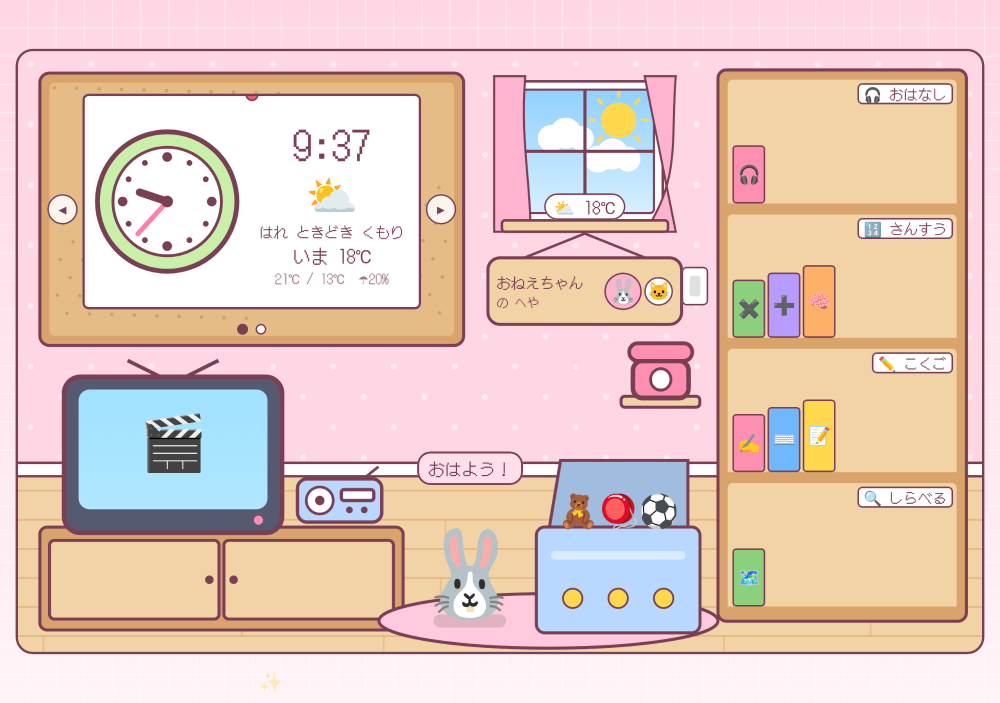
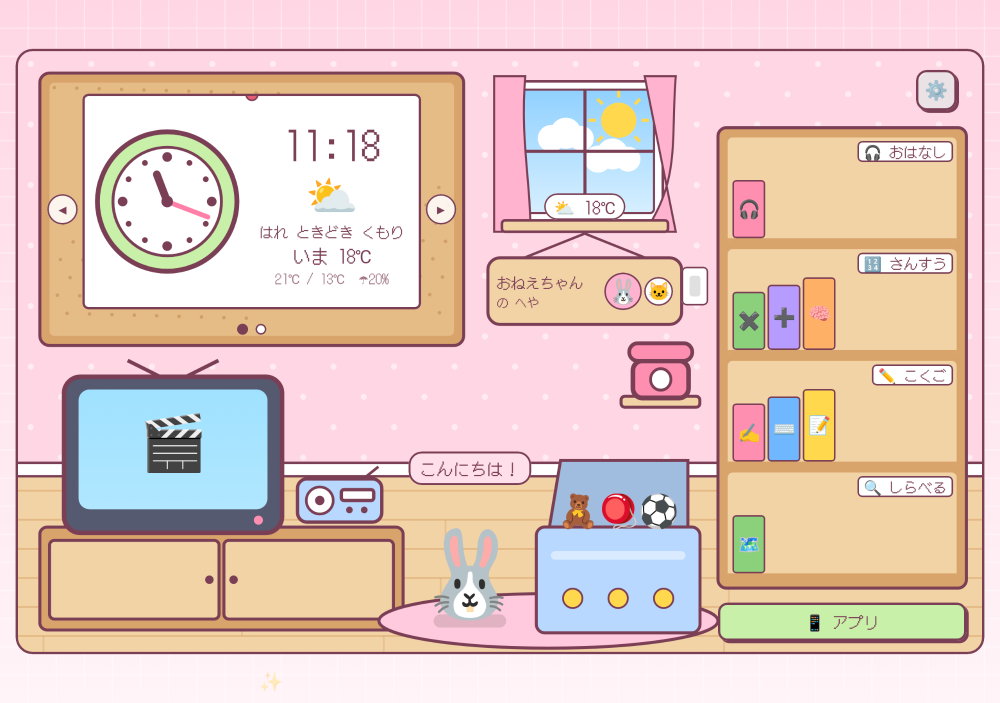
へや：右上に ⚙（2 びょう ながおし）を もどす、右下に 📱 アプリ（ドロワー）
- でんきの スイッチ は やめる（わかりにくかった）
- ドロワー：この子に 見せる アプリ・どうがアプリ・仕分けた カテゴリー
- 0.20.0

Claude-Session: https://claude.ai/code/session_01NhS3xRwFVfssMDMXfSoJEv

diff --git a/app/src/main/java/com/theta/kidshome/ui/Room.kt b/app/src/main/java/com/theta/kidshome/ui/Room.kt
@@ -96,7 +96,9 @@ private val BOARD = R(40f, 40f, 700f, 450f)
 private val WINDOW = R(790f, 45f, 300f, 274f)
 private val PLATE = R(780f, 345f, 320f, 110f)
 private val SWITCH = R(1100f, 360f, 44f, 64f)
-private val SHELF = R(1160f, 35f, 410f, 910f)
+private val SHELF = R(1160f, 130f, 410f, 760f)
+private val GEAR = R(1470f, 18f, 100f, 100f)
+private val APPS = R(1160f, 905f, 410f, 82f)
 private val TV = R(80f, 515f, 360f, 292f)
 private val RADIO = R(460f, 690f, 150f, 95f)
 private val PHONE = R(1010f, 480f, 110f, 100f)
@@ -133,6 +135,7 @@ fun RoomView(
     onTv: () -> Unit,
     onRadio: () -> Unit,
     onCall: () -> Unit,
+    apps: List<Shelf> = emptyList(),
     initialPopup: String? = null,
 ) {
     val cal = Calendar.getInstance().apply { timeInMillis = now }
@@ -152,7 +155,11 @@ fun RoomView(
             Weather.forecast?.let { f -> Tag("${Weather.emoji(f.code, f.isDay)} ${f.temp.toInt()}℃", WINDOW.x + WINDOW.w / 2, WINDOW.y + WINDOW.h - 80f, u, theme, Color.White) }
             // なふだ（子どもの きりかえ）と でんきの スイッチ（おうちのひと）
             NamePlate(theme, profile, u)
-            Box(Modifier.offset(u * SWITCH.x, u * SWITCH.y)) { LightSwitch(theme, u, updateBadge, onGate) }
+            // ⚙ おうちのひと（2 びょう ながおし）と 📱 アプリ の いちらん
+            Box(Modifier.offset(u * GEAR.x, u * GEAR.y).size(u * GEAR.w, u * GEAR.h), contentAlignment = Alignment.Center) { HoldButton(theme, updateBadge, onGate) }
+            if (apps.isNotEmpty()) Box(Modifier.offset(u * APPS.x, u * APPS.y).size(u * APPS.w, u * APPS.h), contentAlignment = Alignment.Center) {
+                RetroButton("📱 アプリ", theme, theme.titleBars[1 % theme.titleBars.size], fontSize = 20, modifier = Modifier.fillMaxWidth()) { popup = "apps" }
+            }
             // ほんだな
             if (shelves.isNotEmpty()) Bookshelf(theme, shelves, u) { s ->
                 if (s.open != null && s.tiles.isEmpty()) s.open.invoke() else { popup = "shelf"; popupKey = s.key }
@@ -196,6 +203,7 @@ fun RoomView(
                 "toys" -> Popup(theme, "🧸 おもちゃばこ", u, onClose = { popup = null }, glass = true) {
                     Showcase(theme, toys, u, tileView)
                 }
+                "apps" -> Popup(theme, "📱 アプリ", u, onClose = { popup = null }) { Showcase(theme, apps, u, tileView) }
                 "wardrobe" -> Popup(theme, "👗 きせかえ", u, onClose = { popup = null }) { Wardrobe(theme, profile.id) }
             }
         }

diff --git a/app/src/main/java/com/theta/kidshome/ui/HomeScreen.kt b/app/src/main/java/com/theta/kidshome/ui/HomeScreen.kt
@@ -206,6 +206,9 @@ fun HomeScreen(
         listOfNotNull(appTiles.takeIf { it.isNotEmpty() }?.let { Shelf("apps", "📱", "アプリ", it) }) +
         tabs.filter { it.kind == TabKind.CATEGORY }.map { Shelf(it.key, it.emoji, it.label, it.tiles) }
     val toyShelves = toys.filter { it.tiles.isNotEmpty() }
+    // 📱 アプリ の いちらん（ドロワー）：この子に 見せる アプリ ぜんぶ
+    val drawer = (listOf(Shelf("apps", "📱", "アプリ", appTiles), Shelf("tvapps", "📺", "どうがアプリ", tvApps)) +
+        tabs.filter { it.kind == TabKind.CATEGORY }.map { Shelf(it.key, it.emoji, it.label, it.tiles) }).filter { it.tiles.isNotEmpty() }
 
     val onTile: (Tile) -> Unit = { tile ->
         when {
@@ -275,6 +278,7 @@ fun HomeScreen(
                     onTv = { if (locked) showLockedDialog = true else open(tvKeys) },
                     onRadio = { open(listOfNotNull("local:music".takeIf { k -> tabs.any { it.key == k } }) + "room:music") },
                     onCall = { if (callTiles.size == 1) onTile(callTiles[0]) else open(listOf("room:calls")) },
+                    apps = drawer,
                 )
             } else Row(Modifier.weight(1f)) {
                 Box(Modifier.weight(1f).fillMaxHeight()) {
@@ -556,7 +560,7 @@ private fun ProfileAvatar(name: String, theme: KidTheme, selected: Boolean, fram
 
 /** 2秒ながおしで開く、おうちのひとボタン（子どもがうっかり押さないように） */
 @Composable
-private fun HoldButton(theme: KidTheme, badge: Boolean, onTriggered: () -> Unit) {
+internal fun HoldButton(theme: KidTheme, badge: Boolean, onTriggered: () -> Unit) {
     var progress by remember { mutableFloatStateOf(0f) }
     val scope = rememberCoroutineScope()
     val shape = RoundedCornerShape(14.dp)
